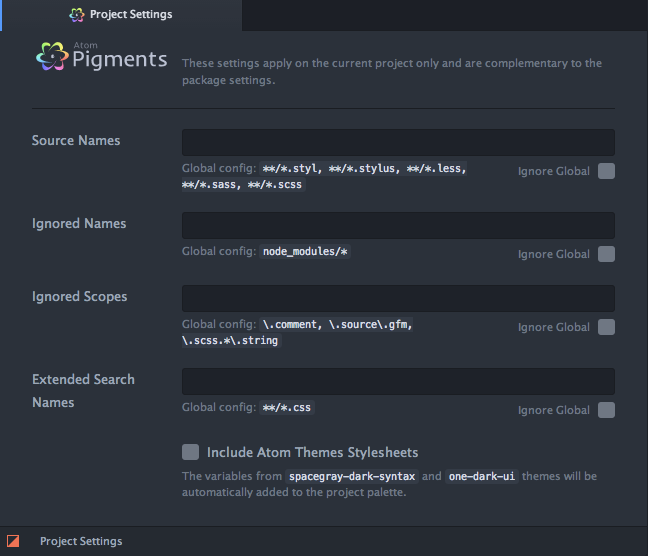
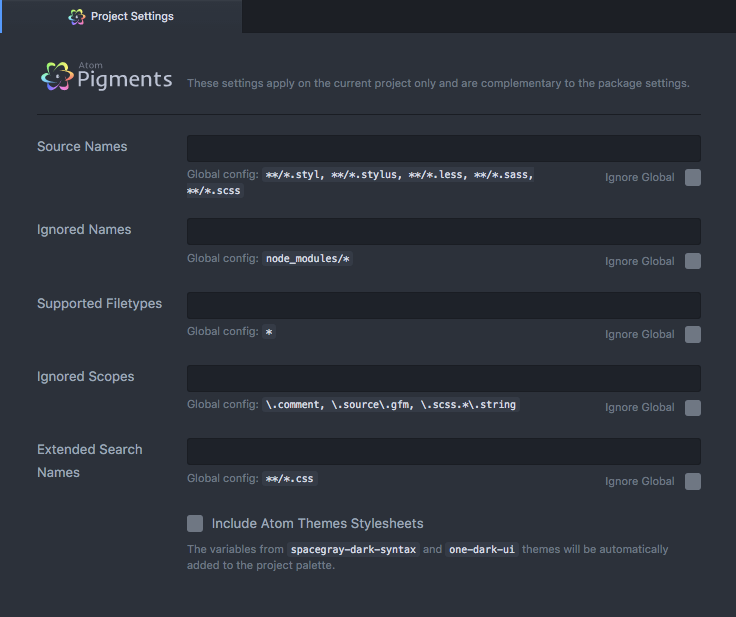
Add supportedFiletypes setting
It should help avoiding users to be confused by the ignored scopes
setting as discussed in #93.

diff --git a/README.md b/README.md
@@ -6,7 +6,7 @@ A package to display colors in project and files:
 
 ![Screenshot](https://github.com/abe33/atom-pigments/blob/master/resources/pigments.gif?raw=true)
 
-Pigments will scan source files in your project directories looking for colors and will build a palette with all of them. Then for each opened file, it will use the palette to evaluate the value of a given color. The legible source paths can be defined through various settings either at the global or per project level.
+Pigments will scan source files in your project directories looking for colors and will build a palette with all of them. Then for each opened file, it will use the palette to evaluate the value of a given color. The legible source paths can be defined through various settings either at the global or per project level. **By default colors in every file will be highlighted, to limit the display of colors to the desired filetype only please see the [Defining Where Pigments Applies](#defining-where-pigments-applies) below.**
 
 Pigments supports out of the box most of the color transformations functions and expressions of the three biggest CSS pre-processors out there, namely LESS, Sass and Stylus. However, it doesn't mean pigments is able to parse and understand all of these languages constructs. For the moment, Pigments' aim is to support the widest range of usage, even if it implies reducing its ability to parse certain complex constructs. You can refer to the [parser specs](https://github.com/abe33/atom-pigments/blob/master/spec/color-parser-spec.coffee) for an exhaustive list of the supported expressions.
 
@@ -19,6 +19,16 @@ apm install pigments
 ```
 
 Or search for `pigments` in Atom settings view.
+
+## Defining Where Pigments Applies
+
+By default, Pigments will highlight every color in every file, but you can limit that using the two settings [`Supported Filetypes`](#supported-filetypes) and [`Ignored Scopes`](#ignored-scopes).
+
+The first setting allow you to specify the list of extensions where pigments will apply. For instance, by using the values `css, less`, colors will be visible only in CSS and Less files.
+
+The second setting takes an array of regular expression strings used to exclude colors in specific scopes (like comments or strings). You can find the scope that applies at the cursor position with the `Editor: Log Cursor Scope` command (<kbd>cmd-alt-p</code> or <kbd>ctrl-alt-shift-p</kbd>).
+
+![get scope](https://github.com/abe33/atom-pigments/blob/master/resources/get-scope.gif?raw=true)
 
 ## Defaults File
 
@@ -153,6 +163,13 @@ An array of glob patterns of files to include in the `Pigments: Find Colors` sca
 
 * Key: `pigments.extendedSearchNames`
 * Default: `['**/*.css']`
+
+### Supported Filetypes
+
+An array of file extensions where colors will be highlighted. If the wildcard `*` is present in this array then colors in every file will be highlighted.
+
+* Key: `pigments.supportedFiletypes`
+* Default: `['*']`
 
 ### Ignored Scopes
 
